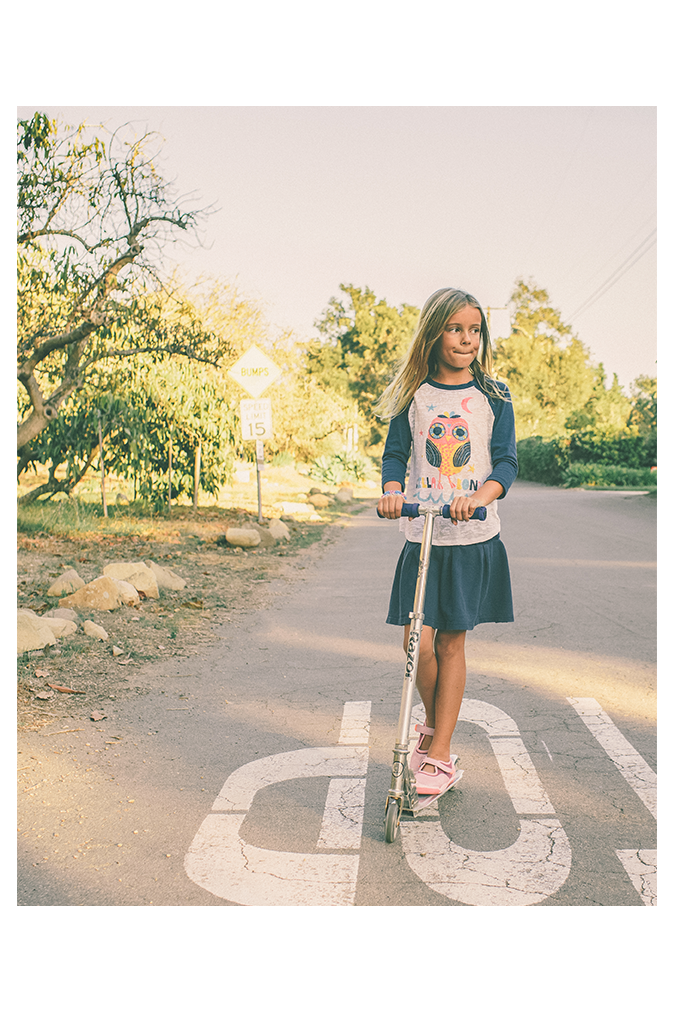
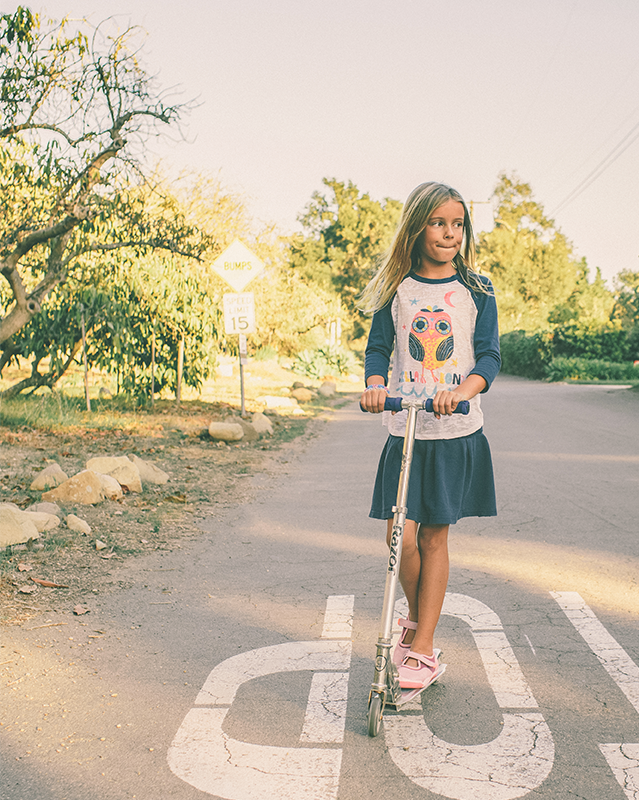
added images to about and our-costumers blocks

diff --git a/src/index.html b/src/index.html
@@ -3,11 +3,14 @@
   <head>
     <meta charset="UTF-8" />
     <title>Plae_HoldinPage</title>
+    <link rel="preconnect" href="https://fonts.googleapis.com">
+    <link rel="preconnect" href="https://fonts.gstatic.com" crossorigin>
+    <link href="https://fonts.googleapis.com/css2?family=Nunito:wght@300;400&family=Yantramanav:wght@100;300&display=swap" rel="stylesheet">
     <link rel="stylesheet" href="style.css" />
   </head>
   <body>
     <div class="wrapper">
-      <div class="intro">
+      <header class="intro">
         <div class="intro-logo">
           <a href="#"><img src="./images/plae-logo.png" alt="Plae shoes" /></a>
         </div>
@@ -26,9 +29,9 @@
             <button>Sign Up</button>
           </div>
         </div>
-      </div>
+      </header>
 
-      <div class="about">
+      <section class="about">
         <div class="about-description">
           <h2>About Plae</h2>
           <p>
@@ -57,13 +60,13 @@
           </p>
         </div>
         <div class="about-image">
-          <!--          <img src="./images/Max_Black_Push_Bike.png" alt="Max black push bike">-->
+          <img src="./images/Max_Black_push_bike.png" alt="Max black push bike">
         </div>
-      </div>
+      </section>
 
-      <div class="our-costumers">
+      <section class="our-costumers">
         <div class="our-costumers-image">
-          <!--          <img src="./images/Emme_Pink_Scooter.png" alt="Charlie (age 8)" />-->
+         <img src="./images/Emme_Pink_Scooter.png" alt="Charlie (age 8)" />
         </div>
         <div class="our-costumers-description">
           <h2>What our customers say</h2>
@@ -87,9 +90,9 @@
           <p>Edie (age 6)</p>
         </div>
         <div class="our-costumers-image">
-          <!--          <img src="./images/Emme_Pink_Scooter.png" alt="Charlie (age 8)" />-->
+          <img src="./images/Edie.png" alt="Charlie (age 8)" />
         </div>
-      </div>
+      </section>
     </div>
   </body>
 </html>

diff --git a/src/styles/css/our-costumers.css b/src/styles/css/our-costumers.css
@@ -6,7 +6,12 @@
   align-items: center;
   justify-content: space-between;
   width: 100%;
-  height: 800px;
+}
+.our-costumers-image {
+  width: 50%;
+}
+.our-costumers-image img {
+  width: 100%;
 }
 .our-costumers-description {
   display: flex;
@@ -21,24 +26,27 @@
 .our-costumers-description .costumer-review {
   display: flex;
   flex-direction: column;
-  padding: 50px 0;
+  padding: 12.5% 0;
 }
 .our-costumers-description .costumer-review:before {
   content: "”";
   font-size: 72px;
   color: #dcdcdc;
+  font-family: "Nunito", sans-serif;
+  font-weight: 400;
 }
 .our-costumers-description .costumer-review:after {
   content: "“";
   font-size: 72px;
   color: #dcdcdc;
   align-self: end;
+  font-family: "Nunito", sans-serif;
+  font-weight: 400;
 }
 .our-costumers-description .costumer-review p {
   font-size: 20px;
   line-height: 30px;
   text-align: center;
-  padding: 30px 0;
 }
 .our-costumers-description p {
   font-size: 18px;

diff --git a/src/styles/scss/our-costumers.scss b/src/styles/scss/our-costumers.scss
@@ -5,8 +5,13 @@
   align-items: center;
   justify-content: space-between;
   width: 100%;
-  height: 800px;
 
+  &-image {
+    width: 50%;
+    img {
+      width: 100%;
+    }
+  }
   &-description {
     display: flex;
     flex-direction: column;
@@ -21,23 +26,26 @@
     .costumer-review {
       display: flex;
       flex-direction: column;
-      padding: 50px 0;
+      padding: 12.5% 0;
       &:before {
         content: "”";
         font-size: 72px;
         color: #dcdcdc;
+        font-family: "Nunito", sans-serif;
+        font-weight: 400;
       }
       &:after {
         content: "“";
         font-size: 72px;
         color: #dcdcdc;
         align-self: end;
+        font-family: "Nunito", sans-serif;
+        font-weight: 400;
       }
       p {
         font-size: 20px;
         line-height: 30px;
         text-align: center;
-        padding: 30px 0;
       }
     }
 

diff --git a/src/styles/scss/intro.scss b/src/styles/scss/intro.scss
@@ -38,6 +38,8 @@
         text-align: center;
         padding: 40px 0;
         text-shadow: 3px 0 7px black;
+        font-family: 'Yantramanav', sans-serif;
+        font-weight: 300;
       }
     }
 
@@ -53,6 +55,7 @@
         padding: 12px 25px;
         border-bottom-left-radius: 25px;
         border-top-left-radius: 25px;
+        font-family: 'Yantramanav', sans-serif;
       }
 
       button {
@@ -63,6 +66,8 @@
         padding: 12px 25px;
         border-bottom-right-radius: 25px;
         border-top-right-radius: 25px;
+        font-family: 'Nunito', sans-serif;
+        font-weight: 400;
       }
 
     }

diff --git a/src/styles/css/intro.css b/src/styles/css/intro.css
@@ -36,6 +36,8 @@
   text-align: center;
   padding: 40px 0;
   text-shadow: 3px 0 7px black;
+  font-family: "Yantramanav", sans-serif;
+  font-weight: 300;
 }
 .intro-description .registration-field {
   display: flex;
@@ -49,6 +51,7 @@
   padding: 12px 25px;
   border-bottom-left-radius: 25px;
   border-top-left-radius: 25px;
+  font-family: "Yantramanav", sans-serif;
 }
 .intro-description .registration-field button {
   border: none;
@@ -58,4 +61,6 @@
   padding: 12px 25px;
   border-bottom-right-radius: 25px;
   border-top-right-radius: 25px;
+  font-family: "Nunito", sans-serif;
+  font-weight: 400;
 }

diff --git a/src/styles/css/about.css b/src/styles/css/about.css
@@ -3,7 +3,6 @@
   align-items: center;
   justify-content: space-between;
   width: 100%;
-  height: 800px;
 }
 .about-description {
   width: 50%;
@@ -14,9 +13,15 @@
 }
 .about-description h2 {
   font-size: 30px;
-  padding-bottom: 50px;
+  padding-bottom: 11.5%;
 }
 .about-description p {
   font-size: 16px;
   padding-bottom: 30px;
+}
+.about .about-image {
+  width: 50%;
+}
+.about .about-image img {
+  width: 100%;
 }

diff --git a/src/styles/scss/about.scss b/src/styles/scss/about.scss
@@ -3,7 +3,6 @@
   align-items: center;
   justify-content: space-between;
   width: 100%;
-  height: 800px;
 
   &-description {
     width: 50%;
@@ -14,12 +13,19 @@
 
     h2 {
       font-size: 30px;
-      padding-bottom: 50px;
+      padding-bottom: 11.5%;
     }
 
     p {
       font-size: 16px;
       padding-bottom: 30px;
+    }
+  }
+
+  .about-image {
+    width: 50%;
+    img {
+      width: 100%;
     }
   }
 }

diff --git a/src/style.css b/src/style.css
@@ -8,6 +8,20 @@
   box-sizing: border-box;
 }
 
+p {
+  font-family: "Yantramanav", sans-serif;
+  font-weight: 100;
+}
+
+h2 {
+  font-family: "Nunito", sans-serif;
+  font-weight: 400;
+}
+
+img {
+  max-height: 800px;
+}
+
 .wrapper {
   max-width: 1280px;
   height: 100vh;
